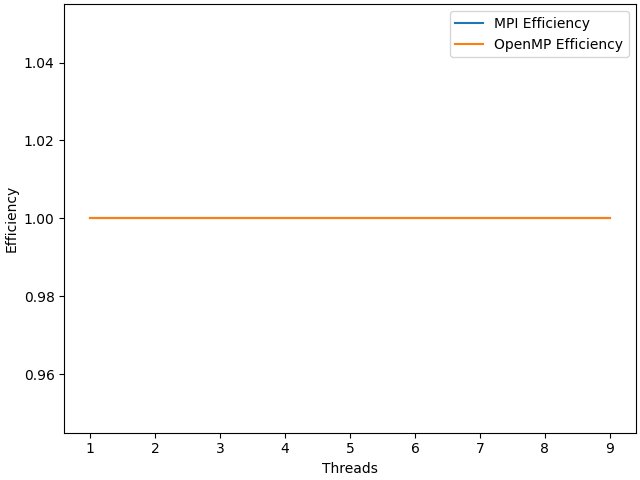
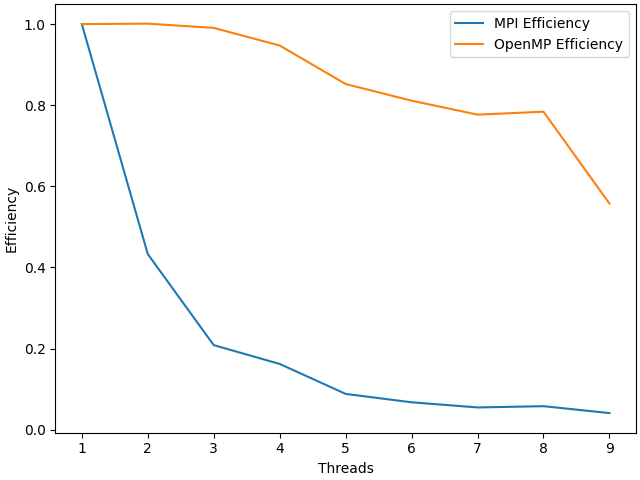
hui

diff --git a/lab5/src/parallel_core.py b/lab5/src/parallel_core.py
@@ -128,8 +128,8 @@ class Visualizer:
         self.data_core2 = Lab1DataCore(self.experimental_data2)
 
     def visualize_average_time(self, name="AVG_time.png"):
-        xt, yt = self.data_core2.load_theoretical_average_time()
-        xp, yp = self.data_core.load_theoretical_average_time()
+        xt, yt = self.data_core2.load_practical_average_time()
+        xp, yp = self.data_core.load_practical_average_time()
         fig, ax = plt.subplots(layout='constrained')
         ax.plot(xt, yt, label="MPI AVG Time")
         ax.plot(xp, yp, label="OpenMP AVG Time")
@@ -150,8 +150,8 @@ class Visualizer:
         fig.savefig(name)
 
     def visualize_efficiency(self, name="efficiency.png"):
-        xt, yt = self.data_core2.load_theoretical_efficiency()
-        xp, yp = self.data_core.load_theoretical_efficiency()
+        xt, yt = self.data_core2.load_practical_efficiency()
+        xp, yp = self.data_core.load_practical_efficiency()
         fig, ax = plt.subplots(layout='constrained')
         ax.plot(xt, yt, label="MPI Efficiency")
         ax.plot(xp, yp, label="OpenMP Efficiency")
